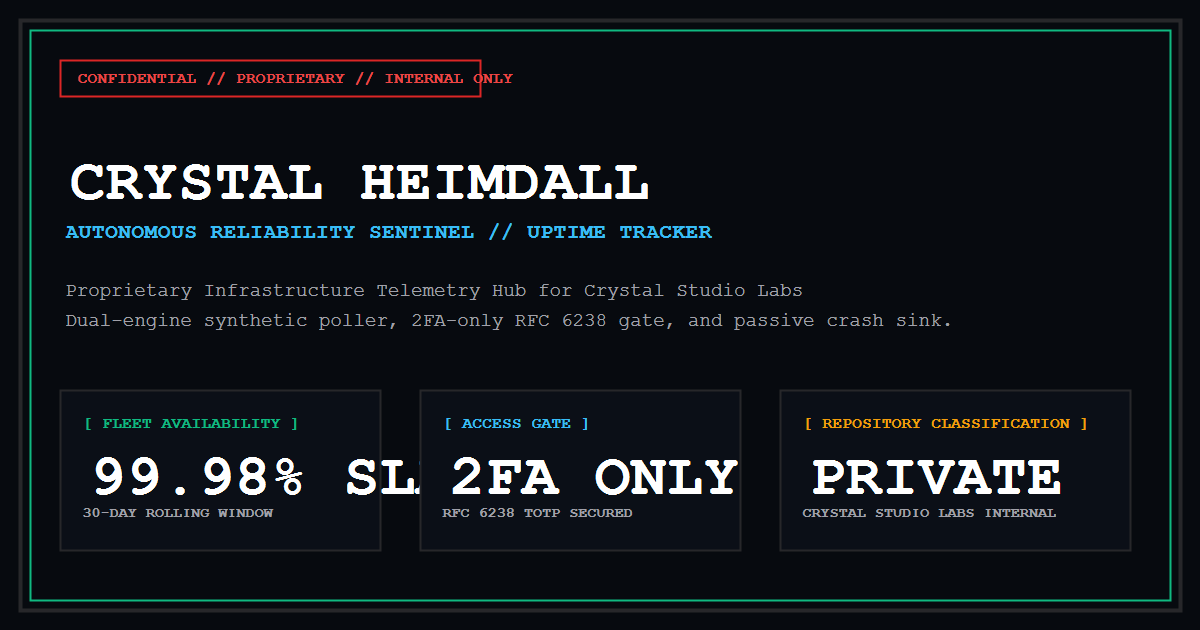
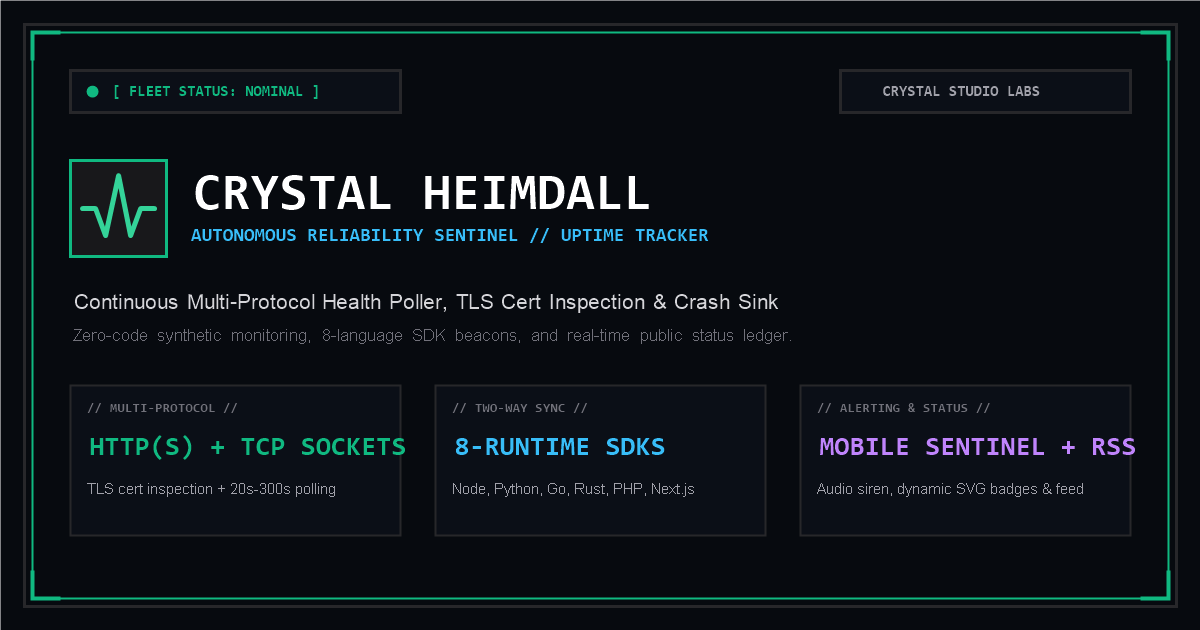
docs(seo): add static OG fallback meta tags, generate 1200x630 social card, and update README

diff --git a/client/index.html b/client/index.html
@@ -18,6 +18,20 @@
     <meta name="msapplication-TileImage" content="/icon-512.png" />
     <meta name="msapplication-TileColor" content="#070a0f" />
 
+    <!-- Search Engine & Social Media Open Graph Fallbacks (Non-JS crawlers) -->
+    <meta name="description" content="Crystal Heimdall // Continuous Multi-Protocol Health Sentinel & Autonomous Incident Status by Crystal Studio Labs." />
+    <meta property="og:type" content="website" />
+    <meta property="og:title" content="Crystal Heimdall // Autonomous Reliability Sentinel" />
+    <meta property="og:description" content="Continuous multi-protocol health monitoring, TLS certificate inspection, and real-time public status board." />
+    <meta property="og:image" content="/og-image.png" />
+    <meta property="og:image:width" content="1200" />
+    <meta property="og:image:height" content="630" />
+    <meta property="og:image:alt" content="Crystal Heimdall System Health Sentinel" />
+    <meta name="twitter:card" content="summary_large_image" />
+    <meta name="twitter:title" content="Crystal Heimdall // Autonomous Reliability Sentinel" />
+    <meta name="twitter:description" content="Continuous multi-protocol health monitoring, TLS certificate inspection, and real-time public status board." />
+    <meta name="twitter:image" content="/og-image.png" />
+
     <!-- Industrial Brutalism Typography -->
     <link rel="preconnect" href="https://fonts.googleapis.com">
     <link rel="preconnect" href="https://fonts.gstatic.com" crossorigin>

diff --git a/README.md b/README.md
@@ -10,26 +10,63 @@
 
 ## 🏛 System Overview
 
-**Crystal Heimdall** is the dedicated, private reliability sentinel and infrastructure monitoring platform engineered exclusively for **Crystal Studio Labs**. Built with an **Industrial Brutalism** design system (`border-radius: 0px !important`), high-density monospace telemetry meters, and zero third-party telemetry bloat, Heimdall delivers continuous uptime monitoring, synthetic poll loops, passive Sentry crash collection, and Web Audio siren alerts for internal operators.
+**Crystal Heimdall** is the dedicated, private reliability sentinel and infrastructure monitoring platform engineered exclusively for **Crystal Studio Labs**. Built with an **Industrial Brutalism** design system (`border-radius: 0px !important`), high-density monospace telemetry meters, and zero third-party telemetry bloat, Heimdall delivers continuous multi-protocol health monitoring, TLS certificate inspection, passive Sentry crash collection, two-way sentinel sync, and Web Audio emergency siren alarms.
 
 ---
 
-## 🔒 Private Repository & Team Onboarding Guidelines
+## 🚀 Core Architectural Milestones & Capabilities
+
+### 1. Dual-Engine Synthetic Health Probing (Zero Code Required)
+* **Synthetic HTTP/HTTPS Prober:** Proactively pings remote targets on configurable 20s–300s intervals with custom headers, expected status codes (`200-299`), and assertion keyword matching.
+* **Native TCP Socket Checker:** Directly probes raw TCP ports (PostgreSQL `5432`, Supabase Pooler `6543`, Redis `6379`, MySQL `3306`, SSH `22`) to detect connection pool exhaustion or routing failures in milliseconds.
+* **TLS / SSL Certificate Inspection:** Automatically inspects TLS certificate chains, extracts days until expiration, and triggers advance warnings before certificates lapse.
+* **Dead-Man's Cron Heartbeats:** Listens for inbound pings (`POST /api/v1/ping/:key`) from recurring cron jobs and background workers with configurable grace periods.
+* **Passive Crash Sink (Sentry-Compatible):** Ingests runtime exceptions (`POST /api/v1/telemetry/errors`) with stack trace demangling, automated fingerprint grouping, and triage drawers.
+
+### 2. Multi-Language Drop-In Sentinel SDKs (8 Runtimes)
+External application integration is 100% **optional** (synthetic health probing begins immediately without code changes). When two-way sync is desired, Heimdall provides zero-dependency drop-in snippets for 8 major runtimes:
+* **Node.js / TypeScript:** Native `fetch` sentinel (`heimdall-sentinel.mjs`) reporting boot, 60s memory/uptime heartbeats, and graceful `SIGTERM`/`SIGINT` shutdowns.
+* **Python (FastAPI / Flask / Django):** Lightweight standard-library `urllib.request` lifespan context manager.
+* **Go (Golang):** Standard-library `net/http` background ticker with OS signal traps.
+* **Rust:** Async `reqwest` + `tokio` sentinel worker.
+* **PHP (Laravel / Symfony):** Native cURL boot hook and cron helper.
+* **Next.js:** App Router `app/api/health/route.ts` non-blocking edge ping.
+* **cURL / Shell / Docker:** One-liner terminal pings, Dockerfile `HEALTHCHECK`, and Linux crontab.
+* **Supabase / PostgreSQL:** HTTPS PostgREST deep-health probe or raw TCP connection pooler socket verification.
+
+### 3. Simplified Status Page (Uptime Robot & Uptime Kuma Style)
+* **Single High-Impact Status Hero:** Clean, bold status banner (`● ALL SYSTEMS OPERATIONAL` or `● ACTIVE SERVICE OUTAGE`) with overall 30-day fleet uptime percentage.
+* **Active Incident Alert:** Prominently highlights ongoing incidents directly under the hero banner with real-time status updates.
+* **Grouped Monitor Rows:** Monitors organized by environment tags (`[ Production ]`, `[ Campus Relay ]`, `[ KrishiSetu ]`), featuring embedded compact 30-day heartbeat strips with hover tooltips, response latency pills, and operational badges.
+* **30-Day Historical Ledger:** Clean, transparent record of resolved incidents and maintenance windows.
+
+### 4. Dynamic SVG Status Badges & RSS 2.0 Feed
+* **Embeddable Markdown Badges:** Live SVG shields for READMEs and dashboards:
+  * Overall Fleet: `GET /api/v1/badge/overall.svg`
+  * Specific Target: `GET /api/v1/badge/:serviceId.svg`
+  * Options: `?style=flat` or `?style=pill`, `?label=Uptime`
+* **Public RSS 2.0 Incident Feed:** Standard XML feed at `/api/v1/rss` for RSS readers, Slack feeds, and automated notification bridges.
+
+### 5. Mobile PWA & Lockscreen Emergency Siren
+* **Progressive Web App:** Fully installable to iOS and Android home screens (`manifest.webmanifest`, service worker caching, and theme color `#070a0f`).
+* **Multi-Oscillator Audio Klaxon:** Synthesized Web Audio klaxon alarm that immediately alerts on-call operators when a monitored target fails.
+* **Responsive Viewport Ratios:** All modals constrained to `max-h-[90vh]` with fixed headers, internal scrollable bodies, collapsible advanced settings, and sticky action buttons.
+
+---
+
+## 🔒 Private Repository & Perimeter Security Guidelines
 
 ### 1. Repository Access & Cloning
 This repository is private. Team members must authenticate via SSH or GitHub CLI with active Crystal Studio Labs organization membership:
 ```bash
 # Clone via SSH (Recommended)
 git clone git@github.com:SahooShuvranshu/Crystal-Heimdall.git
-
-# Or Clone via HTTPS
-git clone https://github.com/SahooShuvranshu/Crystal-Heimdall.git
 cd Crystal-Heimdall
 ```
 
 ### 2. Environment Secrets & Security Policy
 * **Never commit `.env` or sensitive credentials** to git.
-* Obtain the internal team secrets (e.g., `JWT_SECRET`, `TOTP_SECRET`, `DISCORD_WEBHOOK_URL`, `TELEGRAM_BOT_TOKEN`) from the official **Crystal Studio Labs 1Password / Vault** under `Engineering > Crystal-Heimdall`.
+* Obtain team secrets (`JWT_SECRET`, `TOTP_SECRET`, `DISCORD_WEBHOOK_URL`, `TELEGRAM_BOT_TOKEN`) from the official **Crystal Studio Labs 1Password / Vault** under `Engineering > Crystal-Heimdall`.
 * Create your local configuration file from template:
   ```bash
   cp .env.example .env
@@ -40,61 +77,25 @@ Crystal Heimdall does not use master passwords or third-party OAuth. Operators l
 * In production, each authorized engineer scans their provisioned TOTP QR code into an authenticator app (Google Authenticator, Ente Auth, 1Password).
 * In local development or isolated staging environments, emergency code `000000` is accepted for rapid testing.
 
-### 4. Network Isolation & Perimeter Security
-* The **Public Status Page (`/`)** and **Incident Ledger (`/incidents`)** are designed for public consumer and stakeholder visibility.
-* The **Operator Deck (`/dashboard*`)** must be protected behind an internal network perimeter (such as **Cloudflare Zero Trust Access**, **Tailscale**, or private reverse proxy).
-* All dashboard routes are hard-shielded against web crawlers with `<meta name="robots" content="noindex, nofollow" />` and `robots.txt` disallow rules.
-
----
-
-## 🏛 Core Capabilities
-
-* **Industrial Brutalism Design Language:** Strict 0px radius geometries, high-contrast monochrome & emerald aesthetics, 3D block shadows (`shadow-[4px_4px_0px_#000]`), and tactile mechanical button states.
-* **Dual-Engine Synthetic Monitoring:**
-  * Active HTTP/HTTPS probing with configurable method, custom headers, timeout thresholds, and retry exponential backoffs.
-  * Inverted "Dead-Man's Snitch" cron heartbeats (`GET /api/v1/ping/:key`) for batch scripts and internal backup daemons.
-* **Passive Crash Sentinel & Exception Sink:**
-  * Sentry-compatible lightweight ingestion sink (`POST /api/v1/telemetry/errors`) for internal services and microservices.
-  * Real-time stack trace inspection, automated fingerprint grouping, and error triage.
-* **Uptime Kuma SLA Matrix (`/dashboard/analytics`):**
-  * Multi-period availability table calculating 24-Hour, 7-Day, and 30-Day SLA uptime percentages.
-  * Real-time ping latency distributions (P50, P95, P99).
-* **Advanced Engine Settings (`/dashboard/settings`):**
-  * Heartbeat poller intervals, SSL certificate expiry warnings, HTTP status assertions.
-  * Database maintenance center (Incident purge, telemetry pruning, and SQLite vacuuming).
-* **Progressive Web App (PWA) & Emergency Sirens:**
-  * Standalone installable app (`manifest.webmanifest`, service worker cache).
-  * Synthesized Web Audio multi-oscillator klaxon sirens that alert on-call operators immediately during downtime.
-* **Instant Dispatch Conduits:**
-  * Webhook alert delivery to Discord channels and Telegram bot chats.
-
 ---
 
 ## 🧭 Routes & Access Directory
 
 | Route | Classification | Description |
 |---|---|---|
-| [`/`](file:///d:/Projects/Crystal-Heimdall/client/src/pages/StatusPage.tsx) | **Public** | Real-time status page, announcement banner, 30-day uptime bars, minimal footer. |
-| [`/overview`](file:///d:/Projects/Crystal-Heimdall/client/src/pages/LandingPage.tsx) | **Public** | Architectural overview and platform showcase for Crystal Studio Labs. |
+| [`/`](file:///d:/Projects/Crystal-Heimdall/client/src/pages/StatusPage.tsx) | **Public** | Simplified Uptime Robot/Kuma status board, grouped monitors, 30-day strips. |
+| [`/overview`](file:///d:/Projects/Crystal-Heimdall/client/src/pages/LandingPage.tsx) | **Public** | Architectural showcase and telemetry platform capabilities. |
 | [`/incidents`](file:///d:/Projects/Crystal-Heimdall/client/src/pages/IncidentsPage.tsx) | **Public** | Historical incident ledger with severity/status filters and MTTR metrics. |
 | [`/incidents/:id`](file:///d:/Projects/Crystal-Heimdall/client/src/pages/IncidentDetailPage.tsx) | **Public** | Deep-dive postmortem and incident timeline breakdown. |
 | [`/docs`](file:///d:/Projects/Crystal-Heimdall/client/src/pages/DocsPage.tsx) | **Public** | Developer API reference and client code snippets (Node, Python, Go, cURL). |
 | [`/login`](file:///d:/Projects/Crystal-Heimdall/client/src/pages/LoginPage.tsx) | **Public** | 2FA-Only operator authentication gate (6-digit TOTP). |
-| [`/dashboard`](file:///d:/Projects/Crystal-Heimdall/client/src/pages/DashboardPage.tsx) | **Internal Operator** | Command deck, monitor cards, instant probe trigger, maintenance mode toggles. |
-| [`/dashboard/analytics`](file:///d:/Projects/Crystal-Heimdall/client/src/pages/AnalyticsPage.tsx) | **Internal Operator** | Uptime Kuma multi-period availability table, monitor filter, latency percentiles. |
-| [`/dashboard/settings`](file:///d:/Projects/Crystal-Heimdall/client/src/pages/SettingsPage.tsx) | **Internal Operator** | Status Page editor, Uptime Kuma engine config, notification conduits, maintenance actions. |
+| [`/dashboard`](file:///d:/Projects/Crystal-Heimdall/client/src/pages/DashboardPage.tsx) | **Operator** | Command deck, monitor cards, instant probe trigger, maintenance mode toggles. |
+| [`/dashboard/analytics`](file:///d:/Projects/Crystal-Heimdall/client/src/pages/AnalyticsPage.tsx) | **Operator** | Multi-period availability table (24h, 7d, 30d) and latency distributions. |
+| [`/dashboard/settings`](file:///d:/Projects/Crystal-Heimdall/client/src/pages/SettingsPage.tsx) | **Operator** | Engine settings, notification conduits, and database maintenance. |
+| [`/api/v1/badge/:id.svg`](file:///d:/Projects/Crystal-Heimdall/server/routes/badge.ts) | **Public** | Real-time dynamic SVG availability shield for READMEs and web pages. |
+| [`/api/v1/rss`](file:///d:/Projects/Crystal-Heimdall/server/routes/rss.ts) | **Public** | RSS 2.0 XML incident feed for subscribers, Slack, and Discord feeds. |
 | [`/sitemap.xml`](file:///d:/Projects/Crystal-Heimdall/client/public/sitemap.xml) | **Public** | Search engine discovery sitemap with priorities and change frequencies. |
 | [`/robots.txt`](file:///d:/Projects/Crystal-Heimdall/client/public/robots.txt) | **Public** | Web crawler indexation policies (allows public, disallows /dashboard). |
-
----
-
-## 📚 Technical Documentation Suite
-
-* [Architecture & System Design](file:///d:/Projects/Crystal-Heimdall/ARCHITECTURE.md) — Subsystems, dual-engine synthetic pollers, database schemas, and brutalist design tokens.
-* [REST API Reference](file:///d:/Projects/Crystal-Heimdall/API.md) — Public, private, telemetry, and operator endpoints.
-* [Deployment Guide](file:///d:/Projects/Crystal-Heimdall/DEPLOYMENT.md) — Bare-metal, PM2, Docker, systemd, and reverse-proxy instructions.
-* [Security Specification](file:///d:/Projects/Crystal-Heimdall/SECURITY.md) — 2FA-only zero-trust architecture, TOTP specs, and secret management.
-* [Sitemap & SEO Catalog](file:///d:/Projects/Crystal-Heimdall/SITEMAP.md) — Complete routing map, SEO metadata audit, Open Graph tags, and Schema.org JSON-LD.
 
 ---
 
@@ -104,25 +105,35 @@ Crystal Heimdall does not use master passwords or third-party OAuth. Operators l
 # 1. Install dependencies
 npm ci
 
-# 2. Compile client and server bundles
+# 2. Build client and server bundles
 npm run build
 
-# 3. Launch production server on port 3030
-node dist-server/index.js
-```
+# 3. Launch test suite
+node test-smoke.mjs
 
-Or run dev server with hot reload:
-```bash
+# 4. Launch development server with hot-reload (Port 3030)
 npm run dev
 ```
 
-Endpoints:
-* **Status Page:** [http://localhost:3030](http://localhost:3030)
-* **Operator Console:** [http://localhost:3030/dashboard](http://localhost:3030/dashboard)
+---
+
+## 🧪 Comprehensive Verification Suite
+
+Execute the unified automated smoke test suite verifying all 26 subsystems:
+```powershell
+node test-smoke.mjs
+```
+The test suite validates:
+* **Asset & PWA Integrity:** Favicons, SVG/PNG icons, web manifest, service worker.
+* **Public Status Contracts:** Health payload, 30-day heartbeat history, grouped monitors.
+* **TCP Socket Prober:** Port resolution, connection timeouts, and state machines.
+* **TLS Certificate Inspector:** SSL expiry calculation and alerting thresholds.
+* **Drop-In Sentinel Handshake:** Inbound `POST /api/v1/ping/:key` telemetry ingestion.
+* **Dynamic Badges & RSS:** SVG shield generation and valid XML RSS 2.0 output.
+* **Audio Klaxon & Notifications:** Alert triggers and rate limiting.
 
 ---
 
-## 📜 Intellectual Property & Confidentiality
+## 📄 License & Attribution
 
-**PROPRIETARY AND CONFIDENTIAL — CRYSTAL STUDIO LABS &copy; 2026. ALL RIGHTS RESERVED.**  
-This software and associated documentation contain proprietary information belonging to Crystal Studio Labs. Reproduction, distribution, or public display without prior written permission is strictly prohibited.
+&copy; 2026 **Crystal Studio Labs**. Proprietary software. Engineered exclusively for internal infrastructure and reliability operations.
